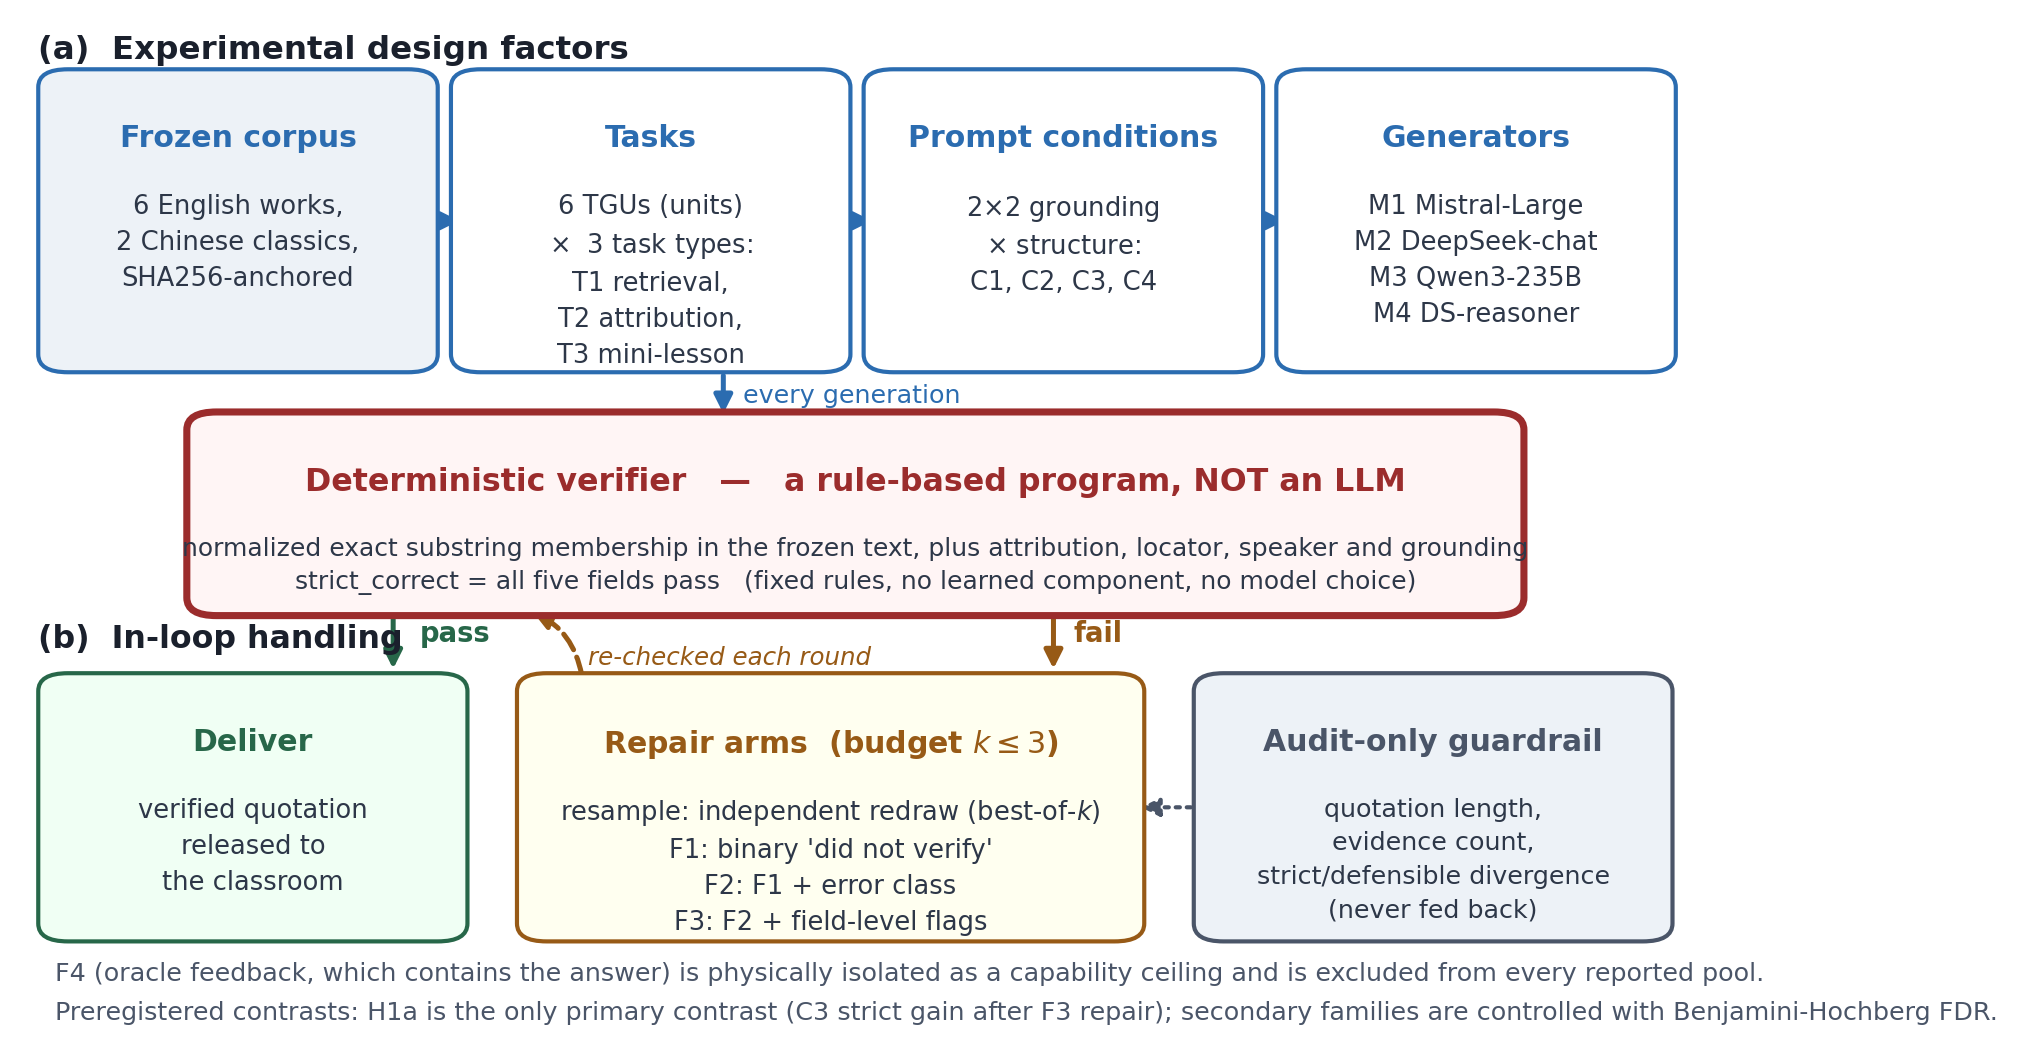
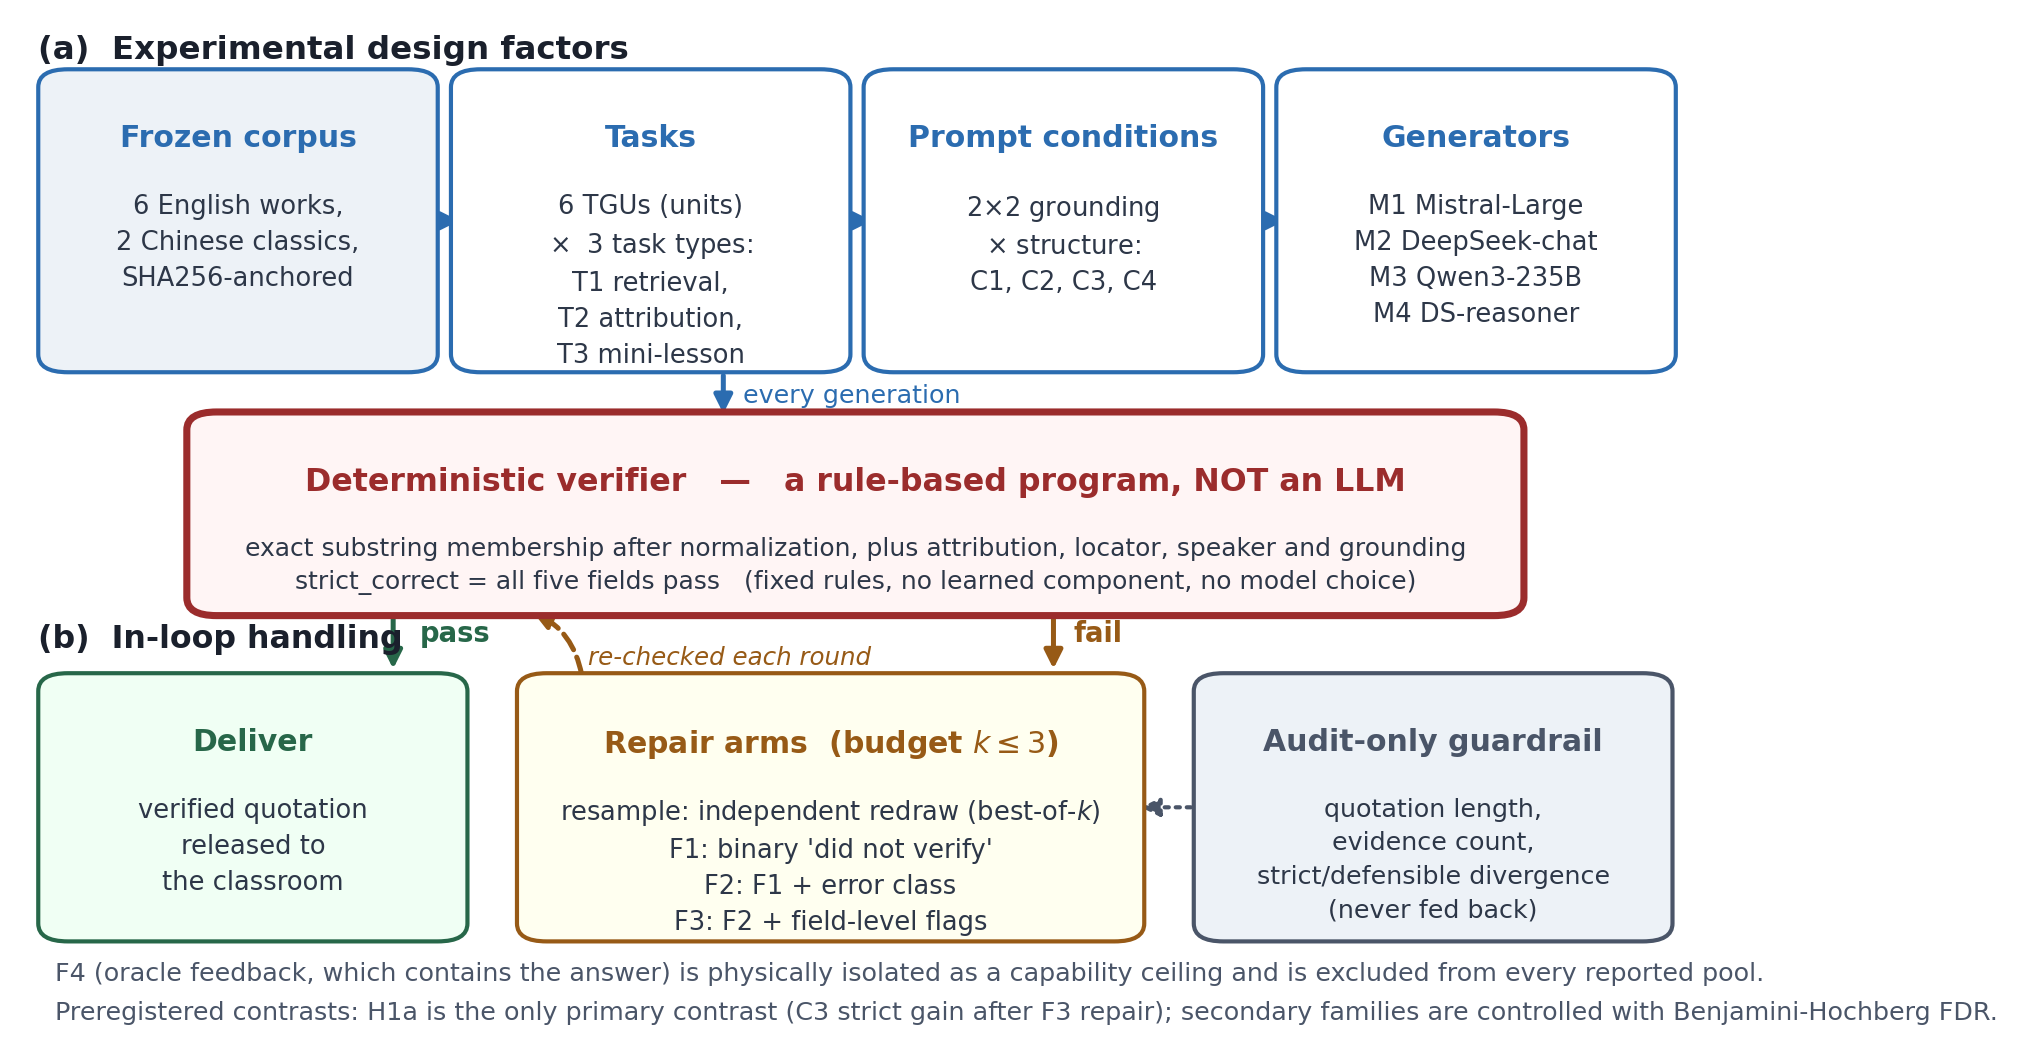
Shorten the verifier line in the pipeline figure so it fits its box
Adding 'normalized' made the line overrun the box border in the article
figure. The wording now reads 'exact substring membership after
normalization'; no data or rule changed.

Changed region(s): [[0.0932, 0.5156, 0.7459, 0.546]]

diff --git a/revision_R2_analysis/make_pipeline_fig_r2.py b/revision_R2_analysis/make_pipeline_fig_r2.py
@@ -68,7 +68,7 @@ def main():
     # ============ Verifier (hub) ============
     box(ax, 0.105, 0.420, 0.79, 0.185,
         "Deterministic verifier   —   a rule-based program, NOT an LLM",
-        "normalized exact substring membership in the frozen text, plus attribution, locator, speaker and grounding\n"
+        "exact substring membership after normalization, plus attribution, locator, speaker and grounding\n"
         "strict_correct = all five fields pass   (fixed rules, no learned component, no model choice)",
         ec=RED, fc="#fff5f5", tsize=7.6, bsize=6.0, lw=1.7)
 
